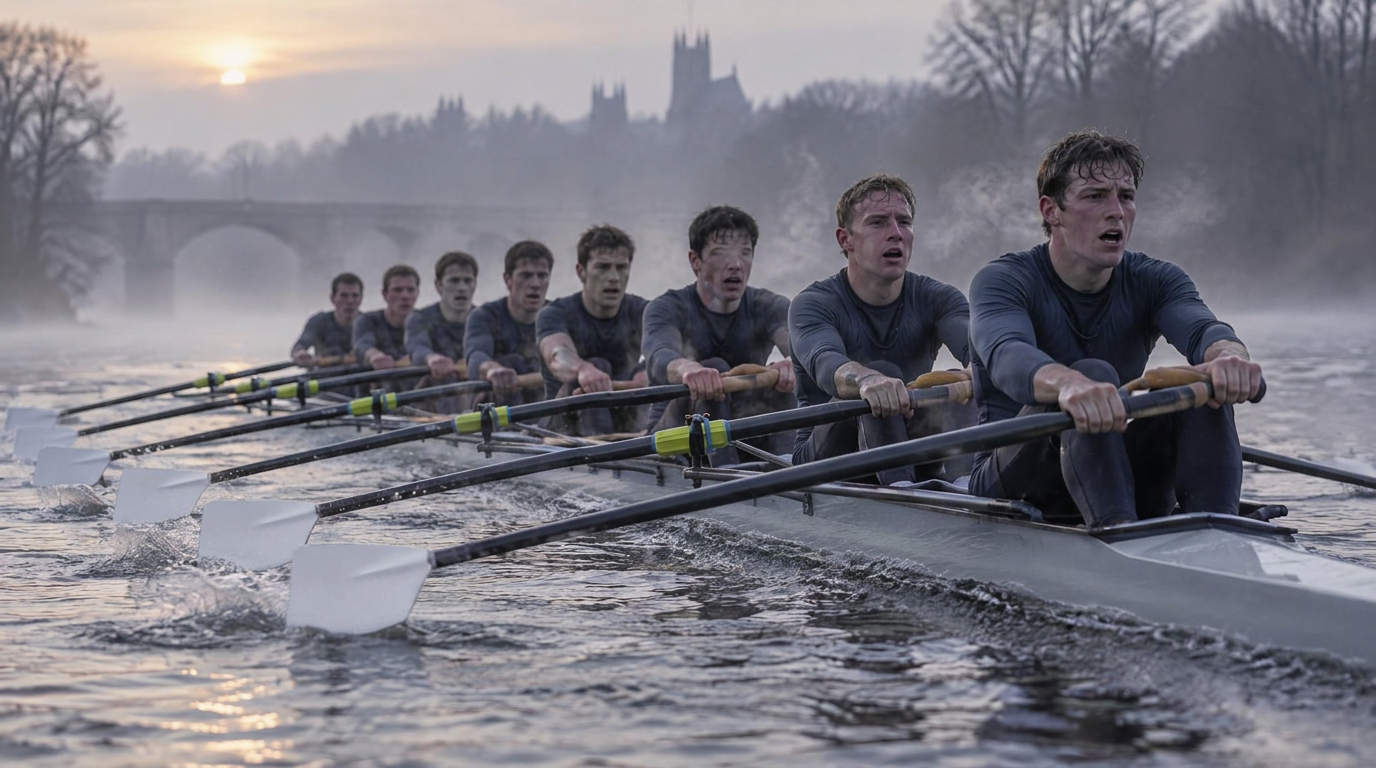
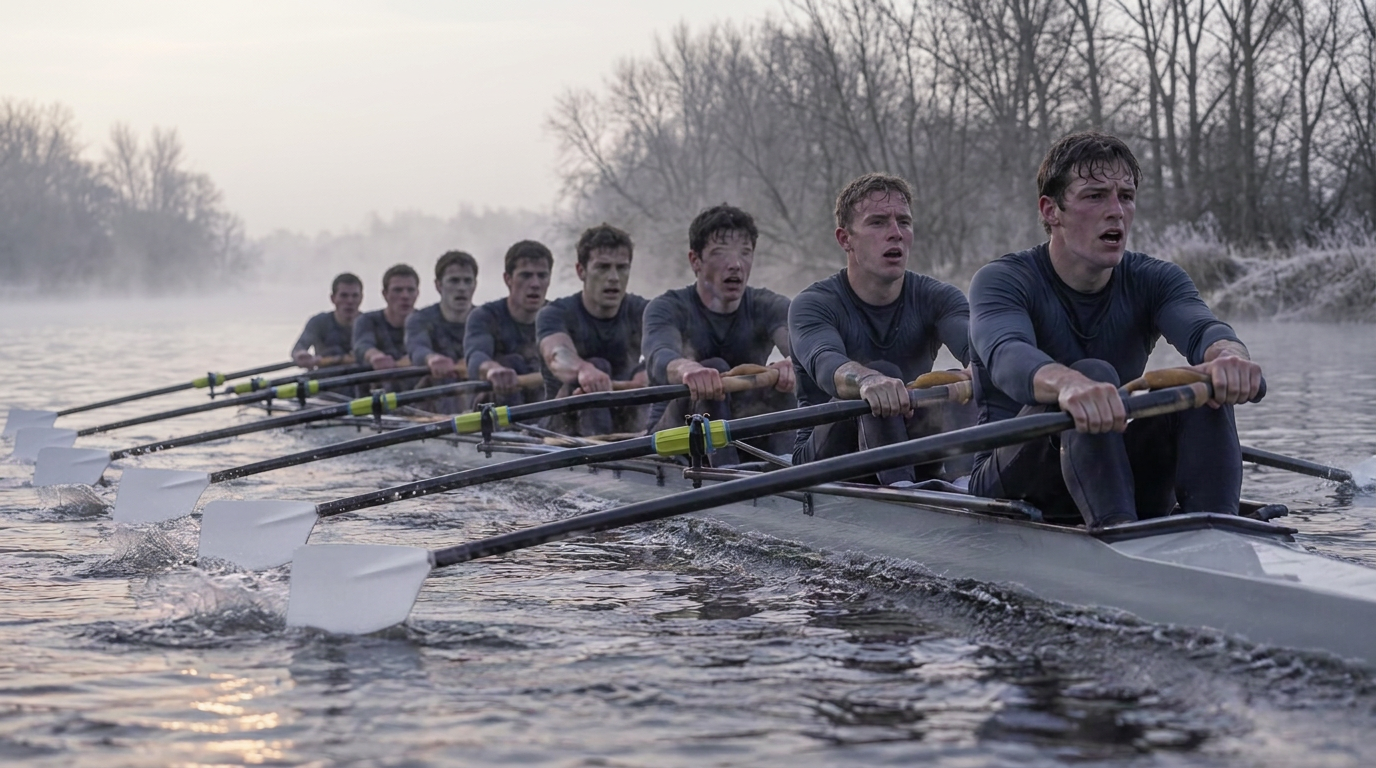
Changes

Changed region(s): [[0.0, 0.0, 1.0, 0.5938], [0.875, 0.4688, 1.0, 0.6875], [0.8438, 0.4688, 0.875, 0.5]]

diff --git a/src/lib/social-legal-alongside.ts b/src/lib/social-legal-alongside.ts
@@ -128,7 +128,7 @@ export const LEGAL_ALONGSIDE_SCENES: AlongsideScene[] = [
     photoObjection:
       "A rally car reads as speed for its own sake, which is the opposite of how I want my matters run.",
     photoVerdict:
-      "Holds only because the frame is the cockpit, not the car: hand-written notes and a second person reading them. Cut it if the set ever needs to look less macho.",
+      "Re-shot inside the cockpit only: no car body, no livery, no speed theatrics — two people and a hand-written note book calling the next corner.",
     src: rally,
     focus: "50% 50%",
     focusSquare: "45% 55%",
@@ -153,7 +153,7 @@ export const LEGAL_ALONGSIDE_SCENES: AlongsideScene[] = [
     photoObjection:
       "Golf is the corporate-hospitality cliché, and half my panel firms already use it. It also signals a client I am not.",
     photoVerdict:
-      "Weakest frame in the set for a legal audience. The filthy weather and buried lie save it from country-club, but it is the first one I would drop.",
+      "Re-shot to answer that: every country-club cue is gone — wild coastal links, storm light, mud, no clubhouse, no spectators, no branding. It now reads as work in bad conditions, not hospitality.",
     src: golfer,
     focus: "35% 55%",
     focusSquare: "40% 55%",
@@ -203,7 +203,7 @@ export const LEGAL_ALONGSIDE_SCENES: AlongsideScene[] = [
     photoObjection:
       "Combat sport next to a legal brand implies we are looking for a fight. My board would not sign it.",
     photoVerdict:
-      "Real risk. Keep it for litigation audiences only; it is wrong for compliance or contracts, where a fight framing is exactly the wrong promise.",
+      "Re-shot without the fight: the boxer sits between rounds, no blood, no raised fists, no crowd, and the coach works quietly a metre away. Safe for any legal audience now.",
     src: boxer,
     focus: "50% 40%",
     focusSquare: "48% 40%",
@@ -253,7 +253,7 @@ export const LEGAL_ALONGSIDE_SCENES: AlongsideScene[] = [
     photoObjection:
       "Cycling is the most over-used metaphor in consulting, full stop.",
     photoVerdict:
-      "Survives on the honesty of the picture rather than the idea — road grit and one rider visibly paying for both. Rotate it out first if the set feels generic.",
+      "Re-shot to stop being stock: an exposed crosswind coast road, plain unbranded kit, the front rider visibly paying for both. Specific weather, specific cost.",
     src: cycling,
     focus: "30% 50%",
     focusSquare: "35% 50%",
@@ -278,7 +278,7 @@ export const LEGAL_ALONGSIDE_SCENES: AlongsideScene[] = [
     photoObjection:
       "Whitewater looks like risk-taking, and I am the person paid to reduce risk.",
     photoVerdict:
-      "Holds because both paddlers are reading the same line rather than thrill-seeking, but the caption has to do the work; the image alone reads as adrenaline.",
+      "Re-shot without the adrenaline: both paddlers upright and composed, blades set on the same line, eyes on the water. It reads as control, not risk-taking.",
     src: whitewater,
     focus: "55% 45%",
     focusSquare: "58% 45%",
@@ -353,7 +353,7 @@ export const LEGAL_ALONGSIDE_SCENES: AlongsideScene[] = [
     photoObjection:
       "A restaurant kitchen has no relationship to legal work, and chef culture reads as shouting.",
     photoVerdict:
-      "Holds as a picture of managed volume — two people, one plate, no theatre — but it is the least legible link to legal of the sixteen.",
+      "Re-shot as managed volume: an orderly pass of identical plates, a ticket rail, calm precise hands and no kitchen theatre. The link to scheduled work now reads without the caption.",
     src: kitchen,
     focus: "35% 45%",
     focusSquare: "38% 45%",
@@ -403,7 +403,7 @@ export const LEGAL_ALONGSIDE_SCENES: AlongsideScene[] = [
     photoObjection:
       "Wreck diving looks reckless, and dark water is hard to read at LinkedIn size.",
     photoVerdict:
-      "Holds on the guideline and reel, which is the whole argument, but it is the weakest at small sizes; use it on the larger placements only.",
+      "Re-shot for small sizes: clearer water, stronger torch beams and the taut guideline now the brightest thing in the frame, so the argument survives at feed scale.",
     src: divers,
     focus: "60% 50%",
     focusSquare: "62% 50%",
@@ -428,7 +428,7 @@ export const LEGAL_ALONGSIDE_SCENES: AlongsideScene[] = [
     photoObjection:
       "Gym imagery reads as hustle culture, which lands badly with senior in-house counsel.",
     photoVerdict:
-      "Holds because the spotter's open hands take none of the weight, and that is the exact promise. Keep the crop tight enough that it is not a physique shot.",
+      "Re-shot tight on the spotter's open palms a hand's width from the bar, torsos covered, no mirrors or hustle styling. The promise is the whole picture now.",
     src: lifter,
     focus: "45% 45%",
     focusSquare: "45% 45%",
@@ -453,7 +453,7 @@ export const LEGAL_ALONGSIDE_SCENES: AlongsideScene[] = [
     photoObjection:
       "Rowing signals a specific university background. It can read as exclusive.",
     photoVerdict:
-      "Holds on the work rather than the club: taped, blistered hands at the catch, no boat livery, no crest. Do not add any identifying kit.",
+      "Re-shot with every club identifier removed — no crest, no livery, no landmarks on the bank — so it reads as matched work under load rather than a particular institution.",
     src: rowing,
     focus: "30% 45%",
     focusSquare: "32% 45%",
